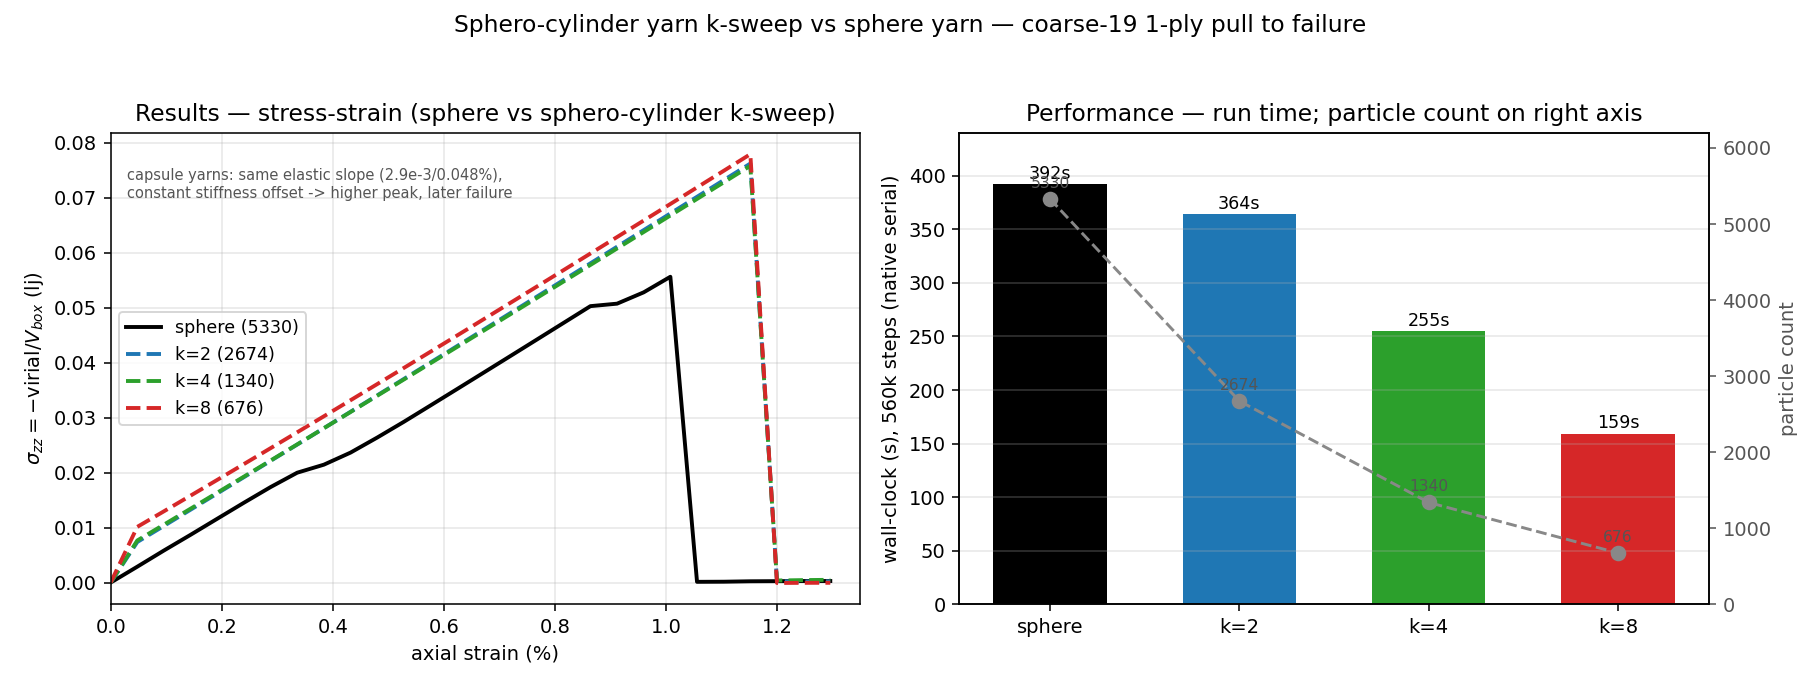
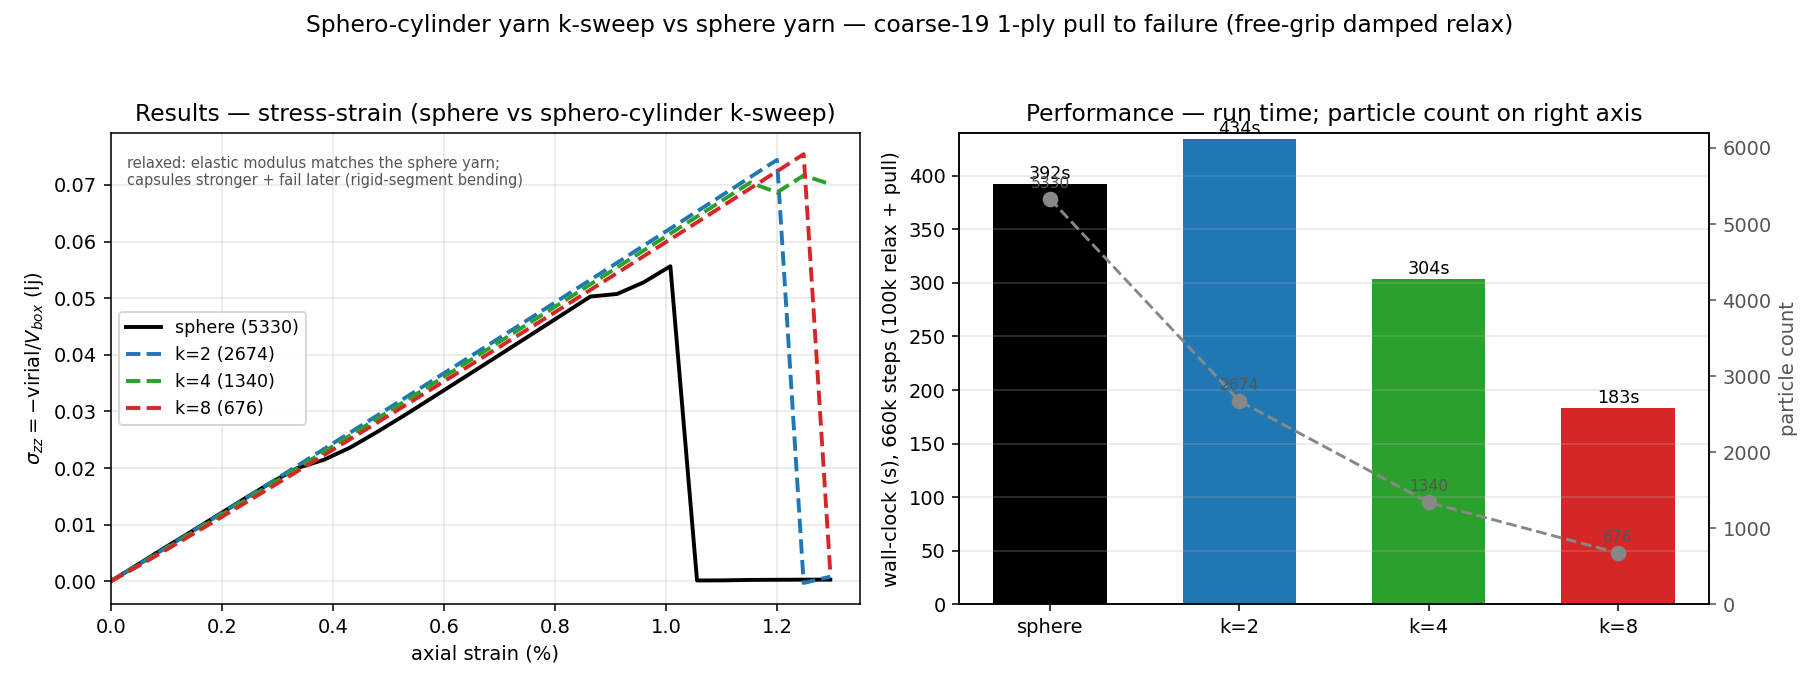
bench_capsule_yarn_pull: relaxed k-sweep graph (elastic parity, strength gap)
Re-run the k=2/4/8 sweep with the free-grip damped relaxation (660k steps = 100k
relax + 560k pull). With the initial overlaps relaxed out, the capsule yarns now
overlay the sphere yarn's ELASTIC modulus (stress @0.1% strain: k2 5.71e-3, k4
5.54e-3 vs sphere 5.8e-3) — the offset is gone.

A real difference remains in STRENGTH: capsules peak higher and fail later
(k2 0.074@1.20%, k4 0.072@1.25%, k8 0.075@1.25% vs sphere 0.056@1.01%) with more
breaks — the rigid capsule segments carry bending differently than a compliant
bead chain and the bond bending/twist damping vanishes (inv_inertia=0). Timing
(660k steps): sphere 392s, k2 434s, k4 304s, k8 183s (capsule contact costs more
per pair, so only k>=4 beats the sphere; k8 is 2.1x faster). OVITO trajectories
(ovito/, gitignored) render capsules as oriented ellipsoids.

diff --git a/examples/bench_capsule_yarn_pull/plot_ksweep.py b/examples/bench_capsule_yarn_pull/plot_ksweep.py
@@ -9,7 +9,7 @@ import matplotlib.pyplot as plt
 import numpy as np
 
 SWEEP = ("/private/tmp/claude-501/-Users-suehr-Documents-GitHub-dirt/"
-         "84d33cd1-a33e-4438-972e-653add533b92/scratchpad/ksweep")
+         "84d33cd1-a33e-4438-972e-653add533b92/scratchpad/ksweepR")
 SPHERE = "examples/bench_yarn_pull_coarse19/data/stress_strain.csv"
 
 def curve(path, scol=2):
@@ -21,9 +21,9 @@ def curve(path, scol=2):
 # (label, path, colour, time_s, particles)
 RUNS = [
     ("sphere (5330)", SPHERE, "#000000", 392.0, 5330),
-    ("k=2 (2674)", f"{SWEEP}/k2/data/stress_strain.csv", "#1f77b4", 364.2, 2674),
-    ("k=4 (1340)", f"{SWEEP}/k4/data/stress_strain.csv", "#2ca02c", 255.0, 1340),
-    ("k=8 (676)",  f"{SWEEP}/k8/data/stress_strain.csv", "#d62728", 159.2, 676),
+    ("k=2 (2674)", f"{SWEEP}/k2/data/stress_strain.csv", "#1f77b4", 434.1, 2674),
+    ("k=4 (1340)", f"{SWEEP}/k4/data/stress_strain.csv", "#2ca02c", 303.6, 1340),
+    ("k=8 (676)",  f"{SWEEP}/k8/data/stress_strain.csv", "#d62728", 183.3, 676),
 ]
 
 fig, ax = plt.subplots(1, 2, figsize=(13, 4.9))
@@ -36,8 +36,8 @@ ax[0].set_xlabel("axial strain (%)")
 ax[0].set_ylabel(r"$\sigma_{zz} = -\mathrm{virial}/V_{box}$ (lj)")
 ax[0].set_title("Results — stress-strain (sphere vs sphero-cylinder k-sweep)")
 ax[0].legend(fontsize=9); ax[0].grid(alpha=0.3); ax[0].set_xlim(0, 1.35)
-ax[0].text(0.03, 0.070, "capsule yarns: same elastic slope (2.9e-3/0.048%),\n"
-                        "constant stiffness offset -> higher peak, later failure",
+ax[0].text(0.03, 0.070, "relaxed: elastic modulus matches the sphere yarn;\n"
+                        "capsules stronger + fail later (rigid-segment bending)",
            fontsize=7.5, color="#555555")
 
 # ── Panel 2: performance (time bars + particle count) ─────────────────────────
@@ -50,7 +50,7 @@ bars = ax[1].bar(xpos, times, color=cols, width=0.6)
 for b, t, p in zip(bars, times, parts):
     ax[1].text(b.get_x() + b.get_width() / 2, t + 5, f"{t:.0f}s", ha="center", fontsize=9)
 ax[1].set_xticks(xpos); ax[1].set_xticklabels(labels)
-ax[1].set_ylabel("wall-clock (s), 560k steps (native serial)")
+ax[1].set_ylabel("wall-clock (s), 660k steps (100k relax + pull)")
 ax[1].set_title("Performance — run time; particle count on right axis")
 ax[1].grid(alpha=0.3, axis="y"); ax[1].set_ylim(0, 440)
 # particle count overlay
@@ -61,7 +61,7 @@ for xx, p in zip(xpos, parts):
 ax2.set_ylabel("particle count", color="#555555")
 ax2.set_ylim(0, 6200); ax2.tick_params(axis="y", colors="#555555")
 
-fig.suptitle("Sphero-cylinder yarn k-sweep vs sphere yarn — coarse-19 1-ply pull to failure", fontsize=12)
+fig.suptitle("Sphero-cylinder yarn k-sweep vs sphere yarn — coarse-19 1-ply pull to failure (free-grip damped relax)", fontsize=12)
 fig.tight_layout(rect=[0, 0, 1, 0.95])
 out = "examples/bench_capsule_yarn_pull/plots/ksweep.png"
 import os; os.makedirs(os.path.dirname(out), exist_ok=True)
